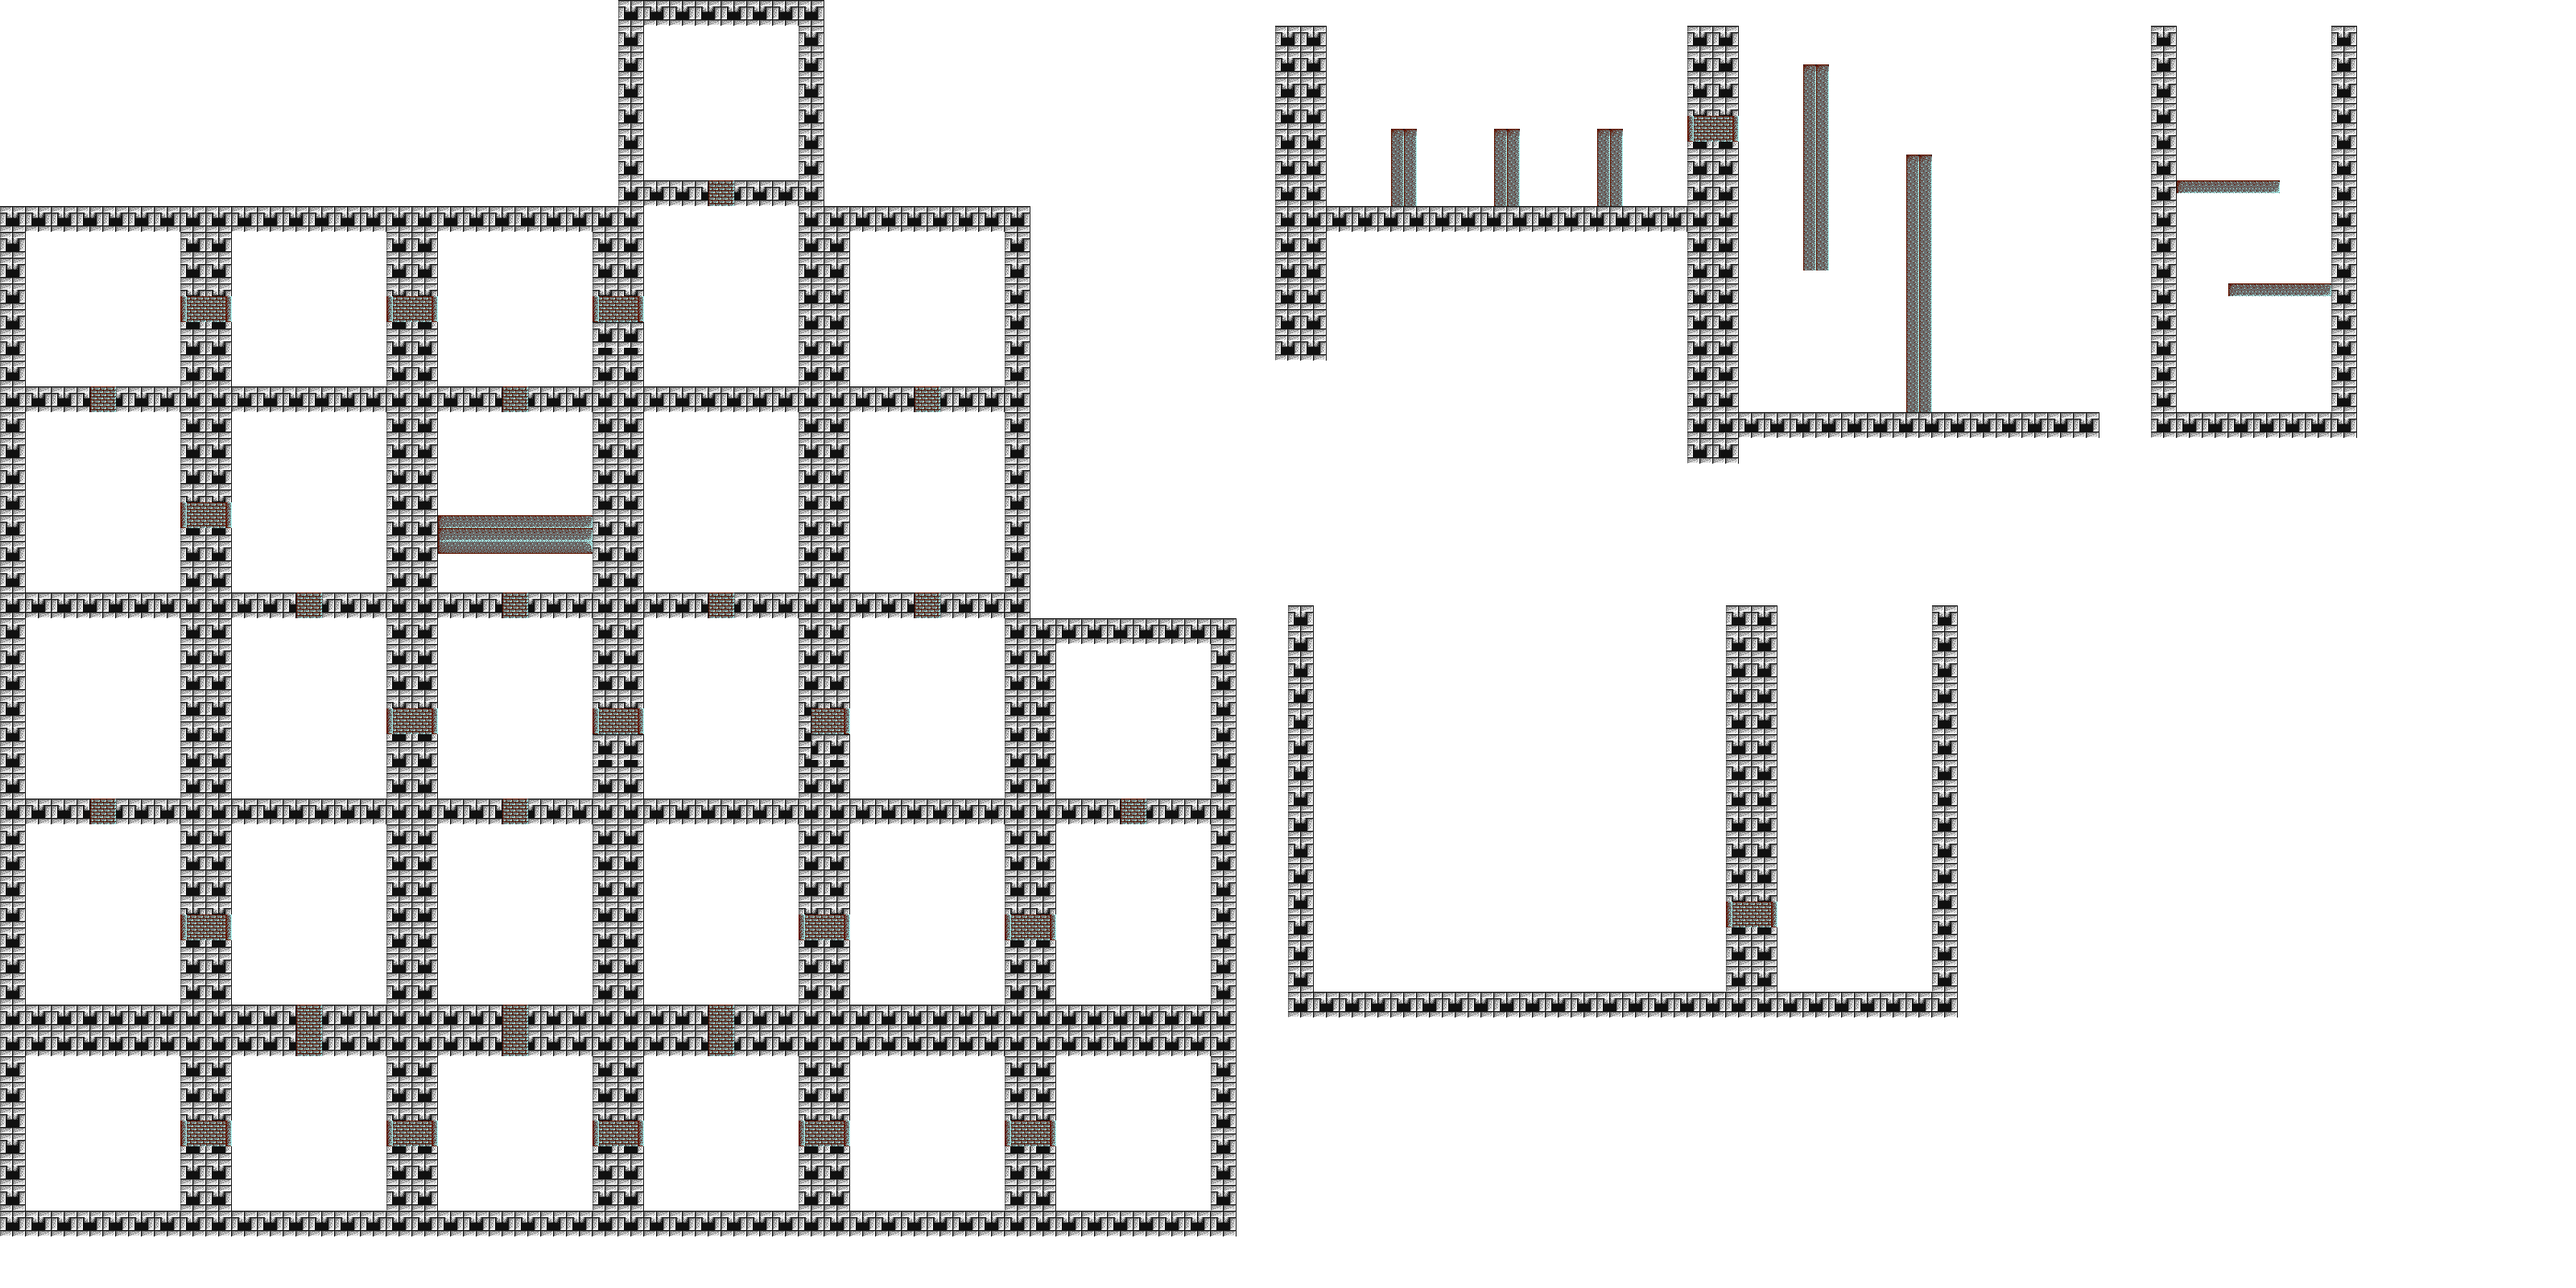
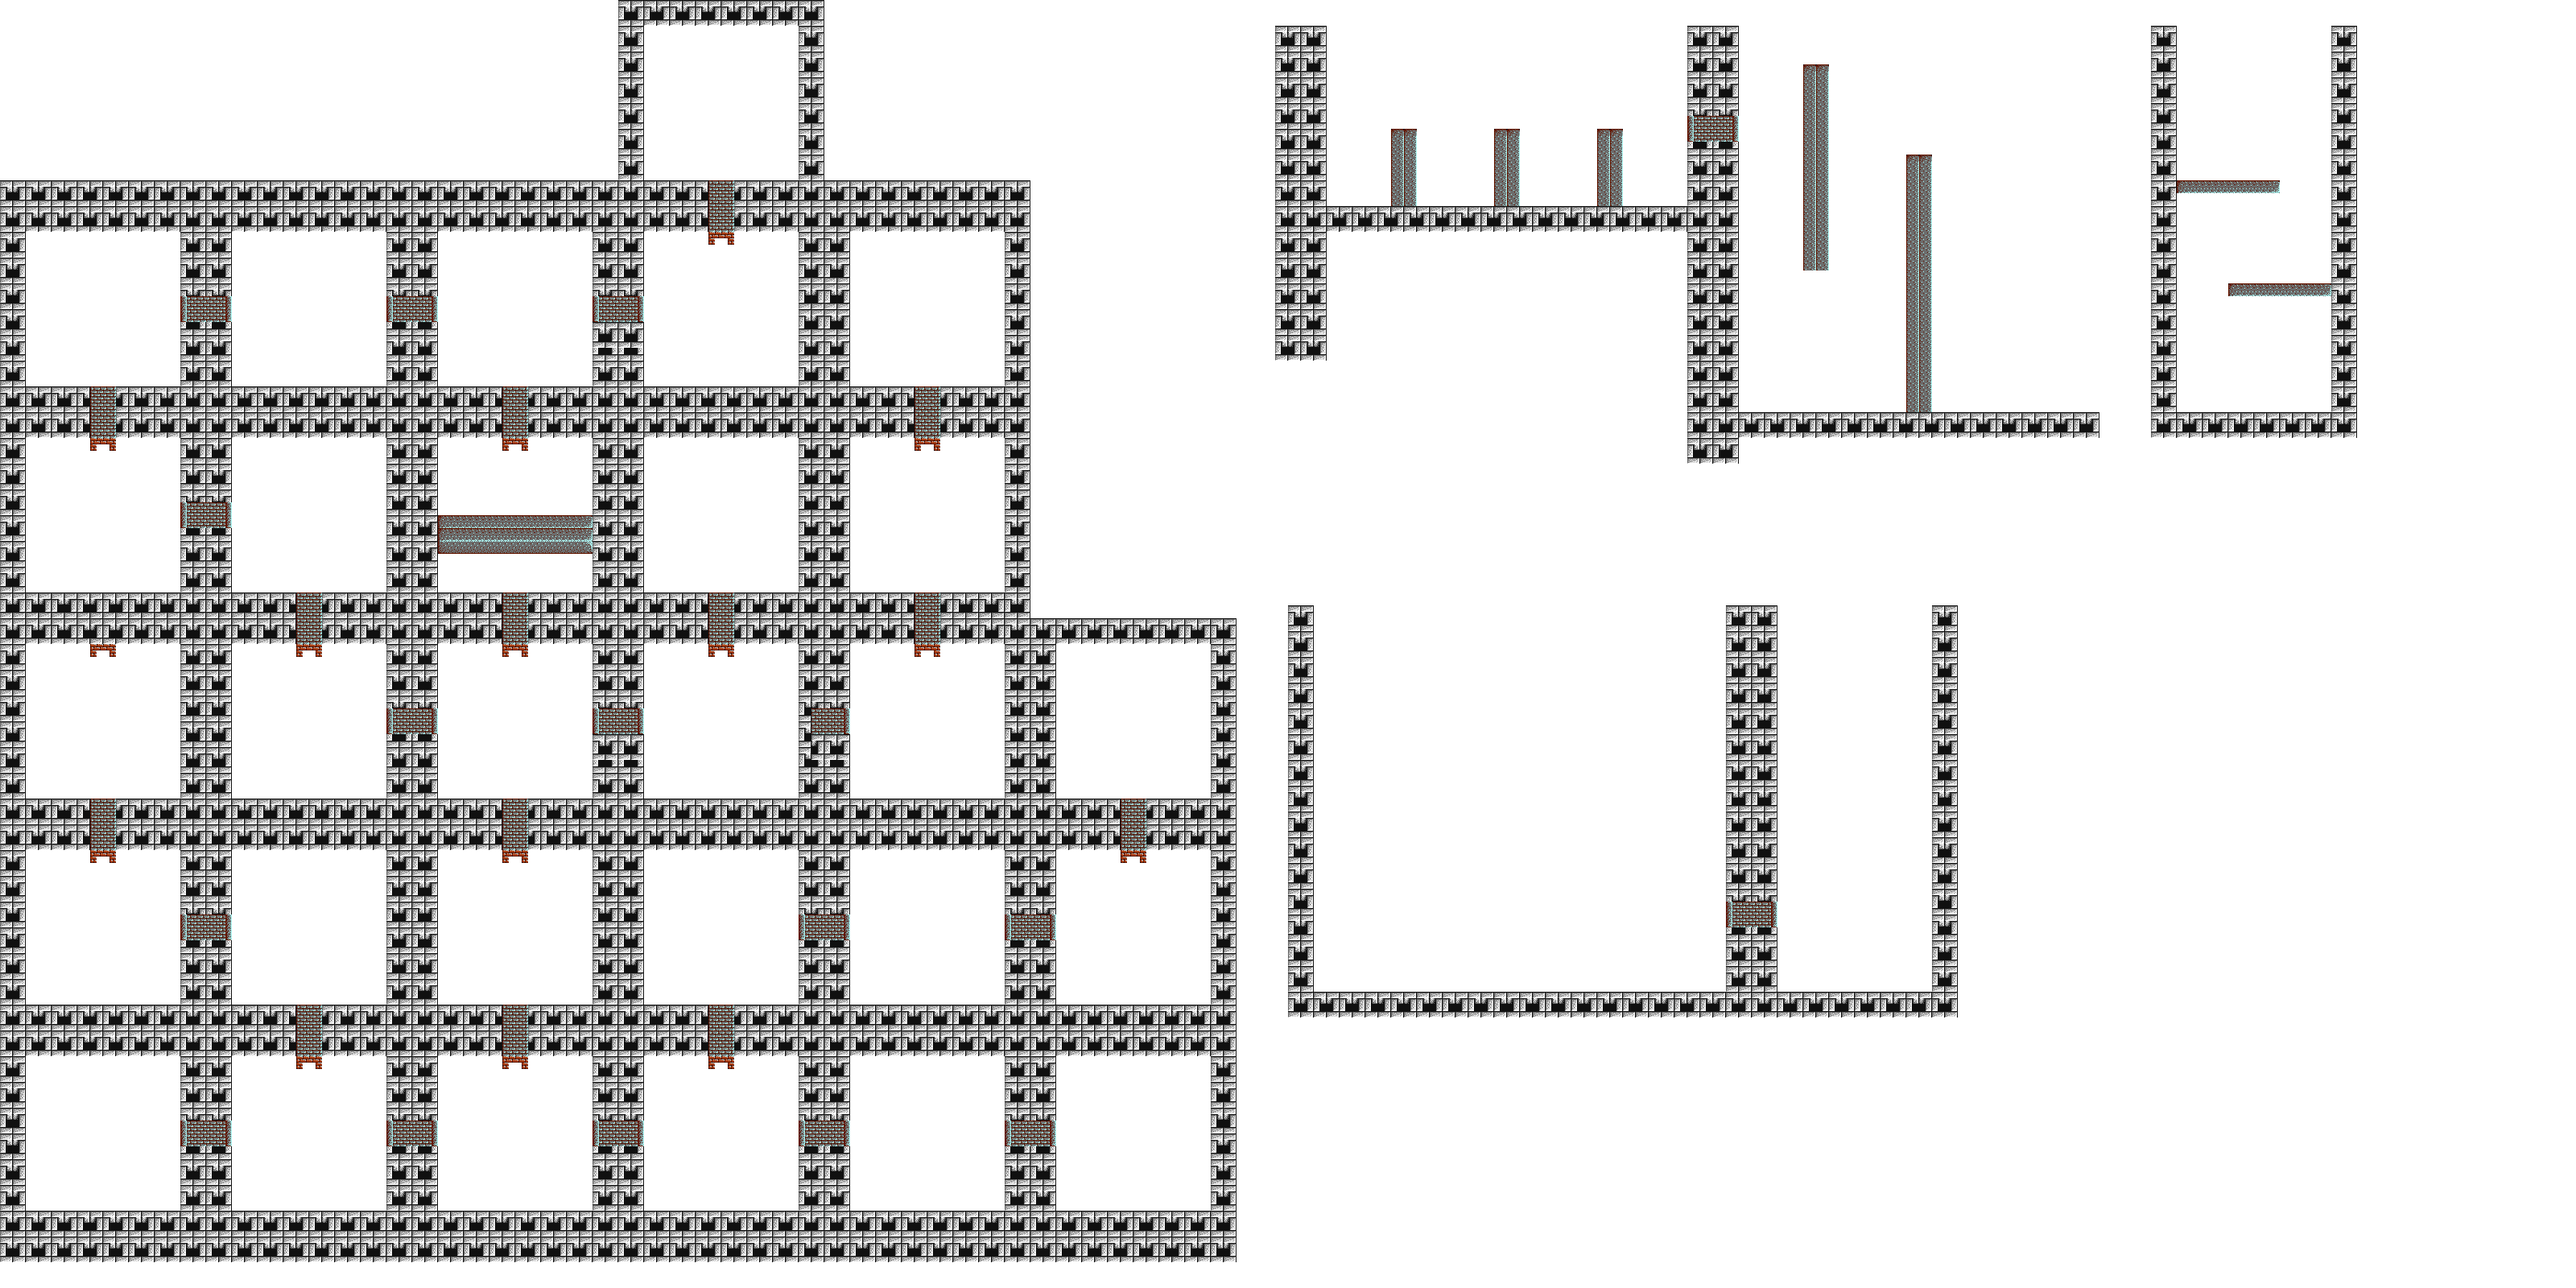
update assets

diff --git a/direct3dtest/CGame.cpp b/direct3dtest/CGame.cpp
@@ -108,9 +108,10 @@ void CGame::loadResource()
 	TextureManager::getInstance()->add(5, "resource\\OverworldMapBg.png", D3DCOLOR_XRGB(255, 0, 255));
 	TextureManager::getInstance()->add(6, "resource\\DungeonMapBg.png", D3DCOLOR_XRGB(255, 0, 255));
 	TextureManager::getInstance()->add(8, "resource\\DungeonMapFg.png", D3DCOLOR_XRGB(255, 0, 255));
-	TextureManager::getInstance()->add(9, "resource\\DungeonMapLayoutFg.png", D3DCOLOR_XRGB(255, 0, 255));
+	TextureManager::getInstance()->add(9, "resource\\OverworldMapFg.png", D3DCOLOR_XRGB(255, 0, 255));
 	TextureManager::getInstance()->add(10, "resource\\bbox.png", D3DCOLOR_XRGB(255, 0, 255));
 	TextureManager::getInstance()->add(11, "resource\\Player_add.png", D3DCOLOR_XRGB(0, 57, 115));
+	
 	SpriteManager* sprManager = SpriteManager::getInstance();
 	
 	AnimationManager* aniManager = AnimationManager::getInstance();
@@ -128,7 +129,7 @@ void CGame::initGame()
 
 	int OverworldSceneId = sceneStateMachine->addScene(new OverworldScene(sceneStateMachine));
 	ResourceImporter::mapDataImport("resource\\map_data\\overworld_layoutData.csv", sceneStateMachine->getSceneById(OverworldSceneId));
-	sceneStateMachine->switchToScene(DebugSceneId);
+	sceneStateMachine->switchToScene(OverworldSceneId);
 }
 
 bool CGame::Release()

diff --git a/direct3dtest/scene/DebugScene.cpp b/direct3dtest/scene/DebugScene.cpp
@@ -83,8 +83,8 @@ void DebugScene::update(DWORD dt) {
 				float lcx = 0, lcy = 0;
 				if (lx > 0) { lcx = cam->getW(); }
 				if (lx < 0) { lcx = -cam->getW(); }
-				if (ly > 0) { lcy = cam->getH(); }
-				if (ly < 0) { lcy = -cam->getH(); }
+				if (ly > 0) { lcy = cam->getH() + 32; }
+				if (ly < 0) { lcy = -(cam->getH() + 32); }
 
 				cam->setForceVeloc(lcx / interval, lcy / interval);
 				cam->updateWithForceVeloc(dt);

diff --git a/direct3dtest/scene/OverworldScene.cpp b/direct3dtest/scene/OverworldScene.cpp
@@ -4,7 +4,7 @@ OverworldScene::OverworldScene(SceneStateMachine* sceneState) : Scene(), sceneSt
 {
 	initScene();
 	bgTexture_id = 5;
-	fgTexture_id = 0;
+	fgTexture_id = 9;
 	activeSection = -1;
 }
 
